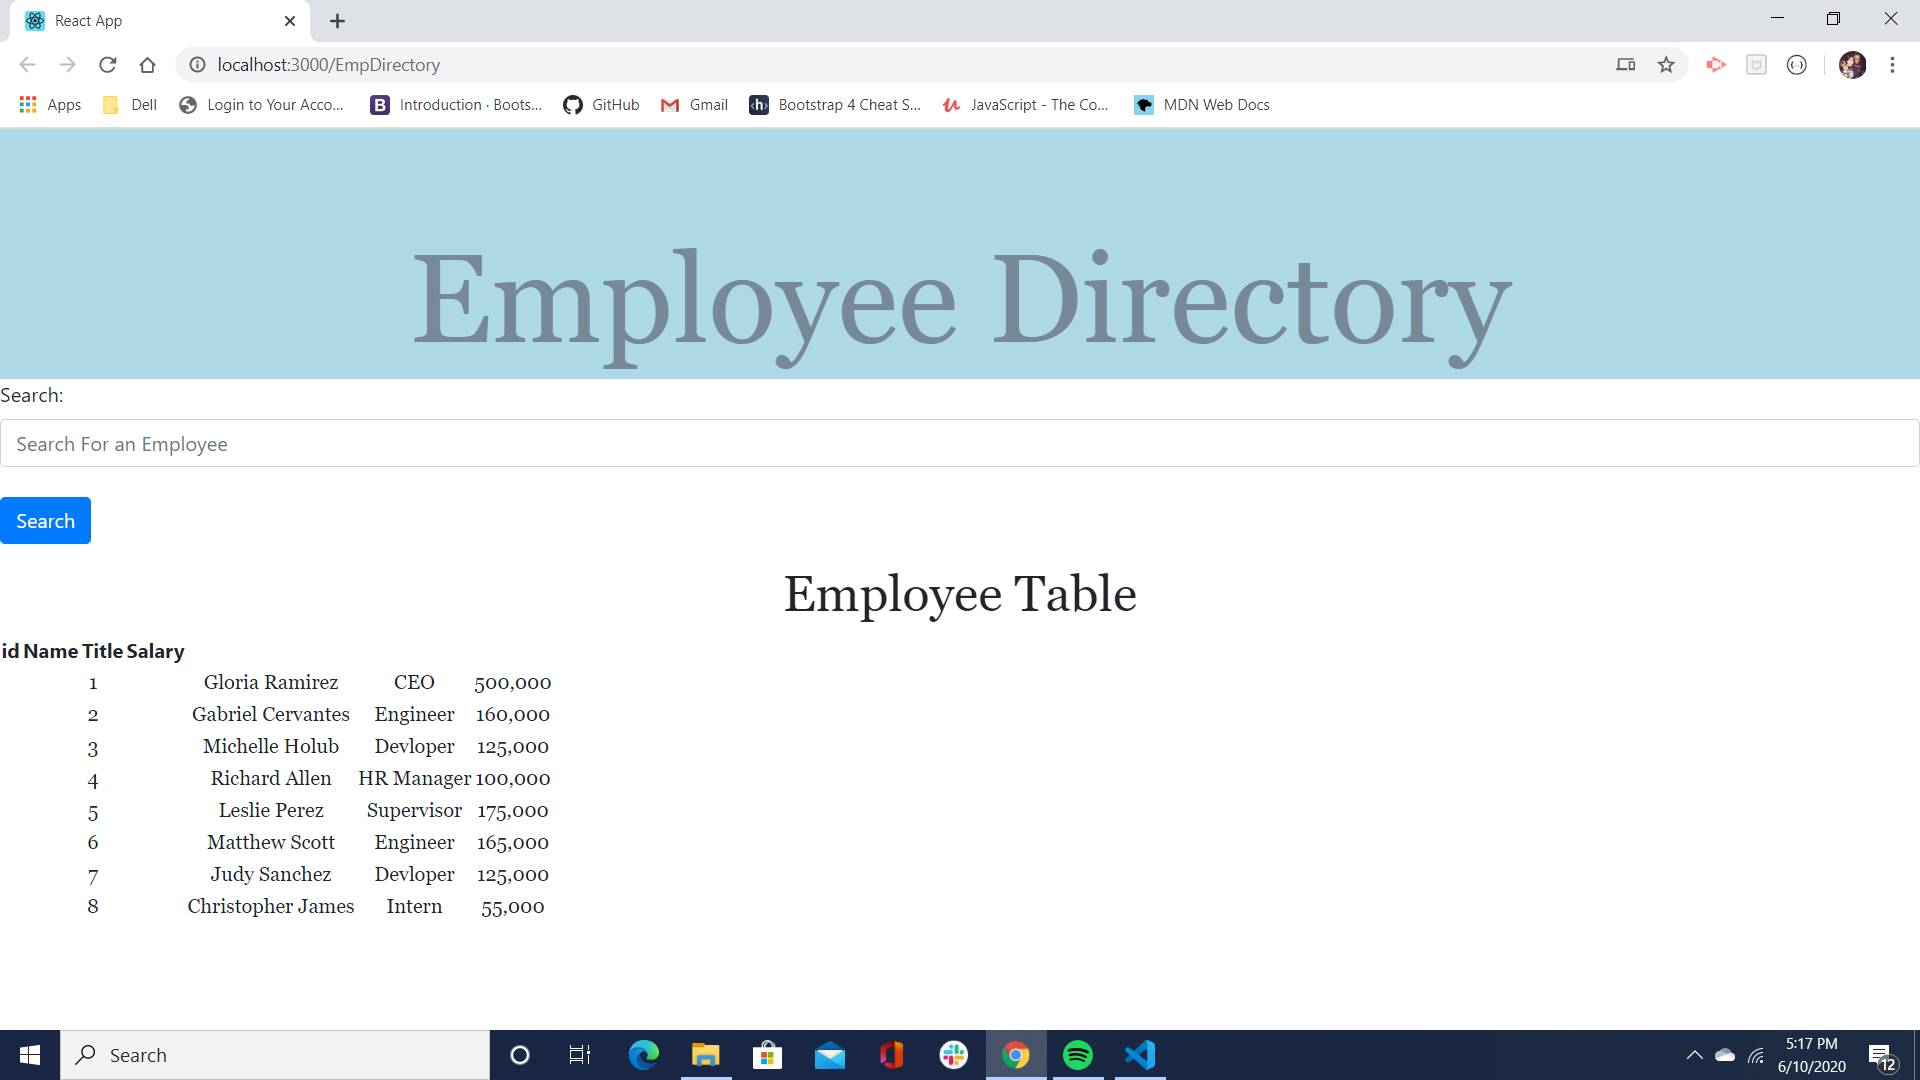
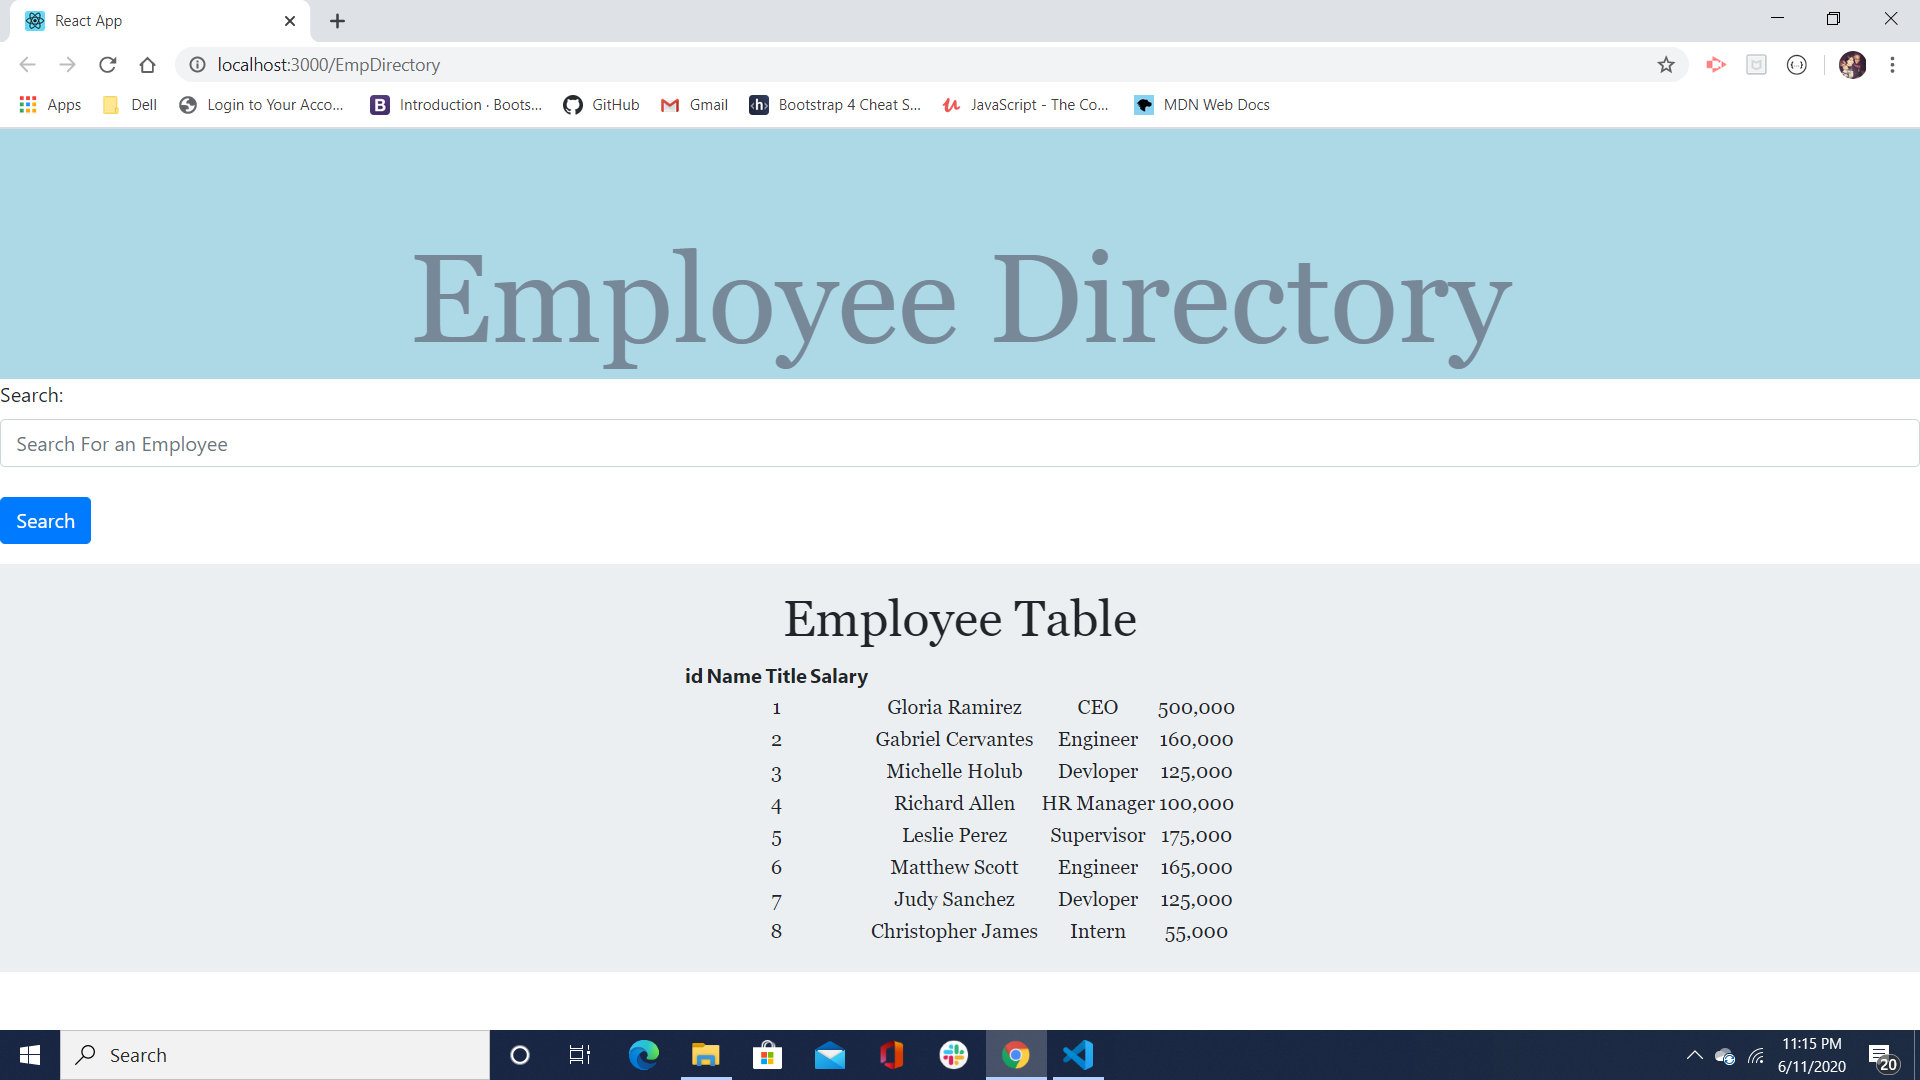
changed image in readme

diff --git a/src/components/Table.js b/src/components/Table.js
@@ -3,7 +3,7 @@ import '../styles/Table.css';
 
 const Table = () => {
 
-const employees = [
+  const employees = [
     { id: 1, name: 'Gloria Ramirez', title: 'CEO', salary: '500,000' },
     { id: 2, name: 'Gabriel Cervantes', title: 'Engineer', salary: '160,000' },
     { id: 3, name: 'Michelle Holub', title: 'Devloper', salary: '125,000' },
@@ -11,7 +11,7 @@ const employees = [
     { id: 5, name: 'Leslie Perez', title: 'Supervisor', salary: '175,000' },
     { id: 6, name: 'Matthew Scott', title: 'Engineer', salary: '165,000' },
     { id: 7, name: 'Judy Sanchez', title: 'Devloper', salary: '125,000' },
-    { id: 8, name: 'Christopher James', title: 'Intern', salary: '55,000'},
+    { id: 8, name: 'Christopher James', title: 'Intern', salary: '55,000' },
   ]
 
   const renderEmployee = (employee, index) => {
@@ -28,19 +28,19 @@ const employees = [
   return (
     <div className="App">
       <h1>Employee Table</h1>
-    <table striped border hover>
-      <thread>
-        <tr>
-          <th>id</th>
-          <th>Name</th>
-          <th>Title</th>
-          <th>Salary</th>
-        </tr>
-      </thread>
-      <tbody>
-        {employees.map(renderEmployee)}
-      </tbody>
-    </table>
+      <table>
+        <thread>
+          <tr>
+            <th>id</th>
+            <th>Name</th>
+            <th>Title</th>
+            <th>Salary</th>
+          </tr>
+        </thread>
+        <tbody>
+          {employees.map(renderEmployee)}
+        </tbody>
+      </table>
     </div>
   );
 }
